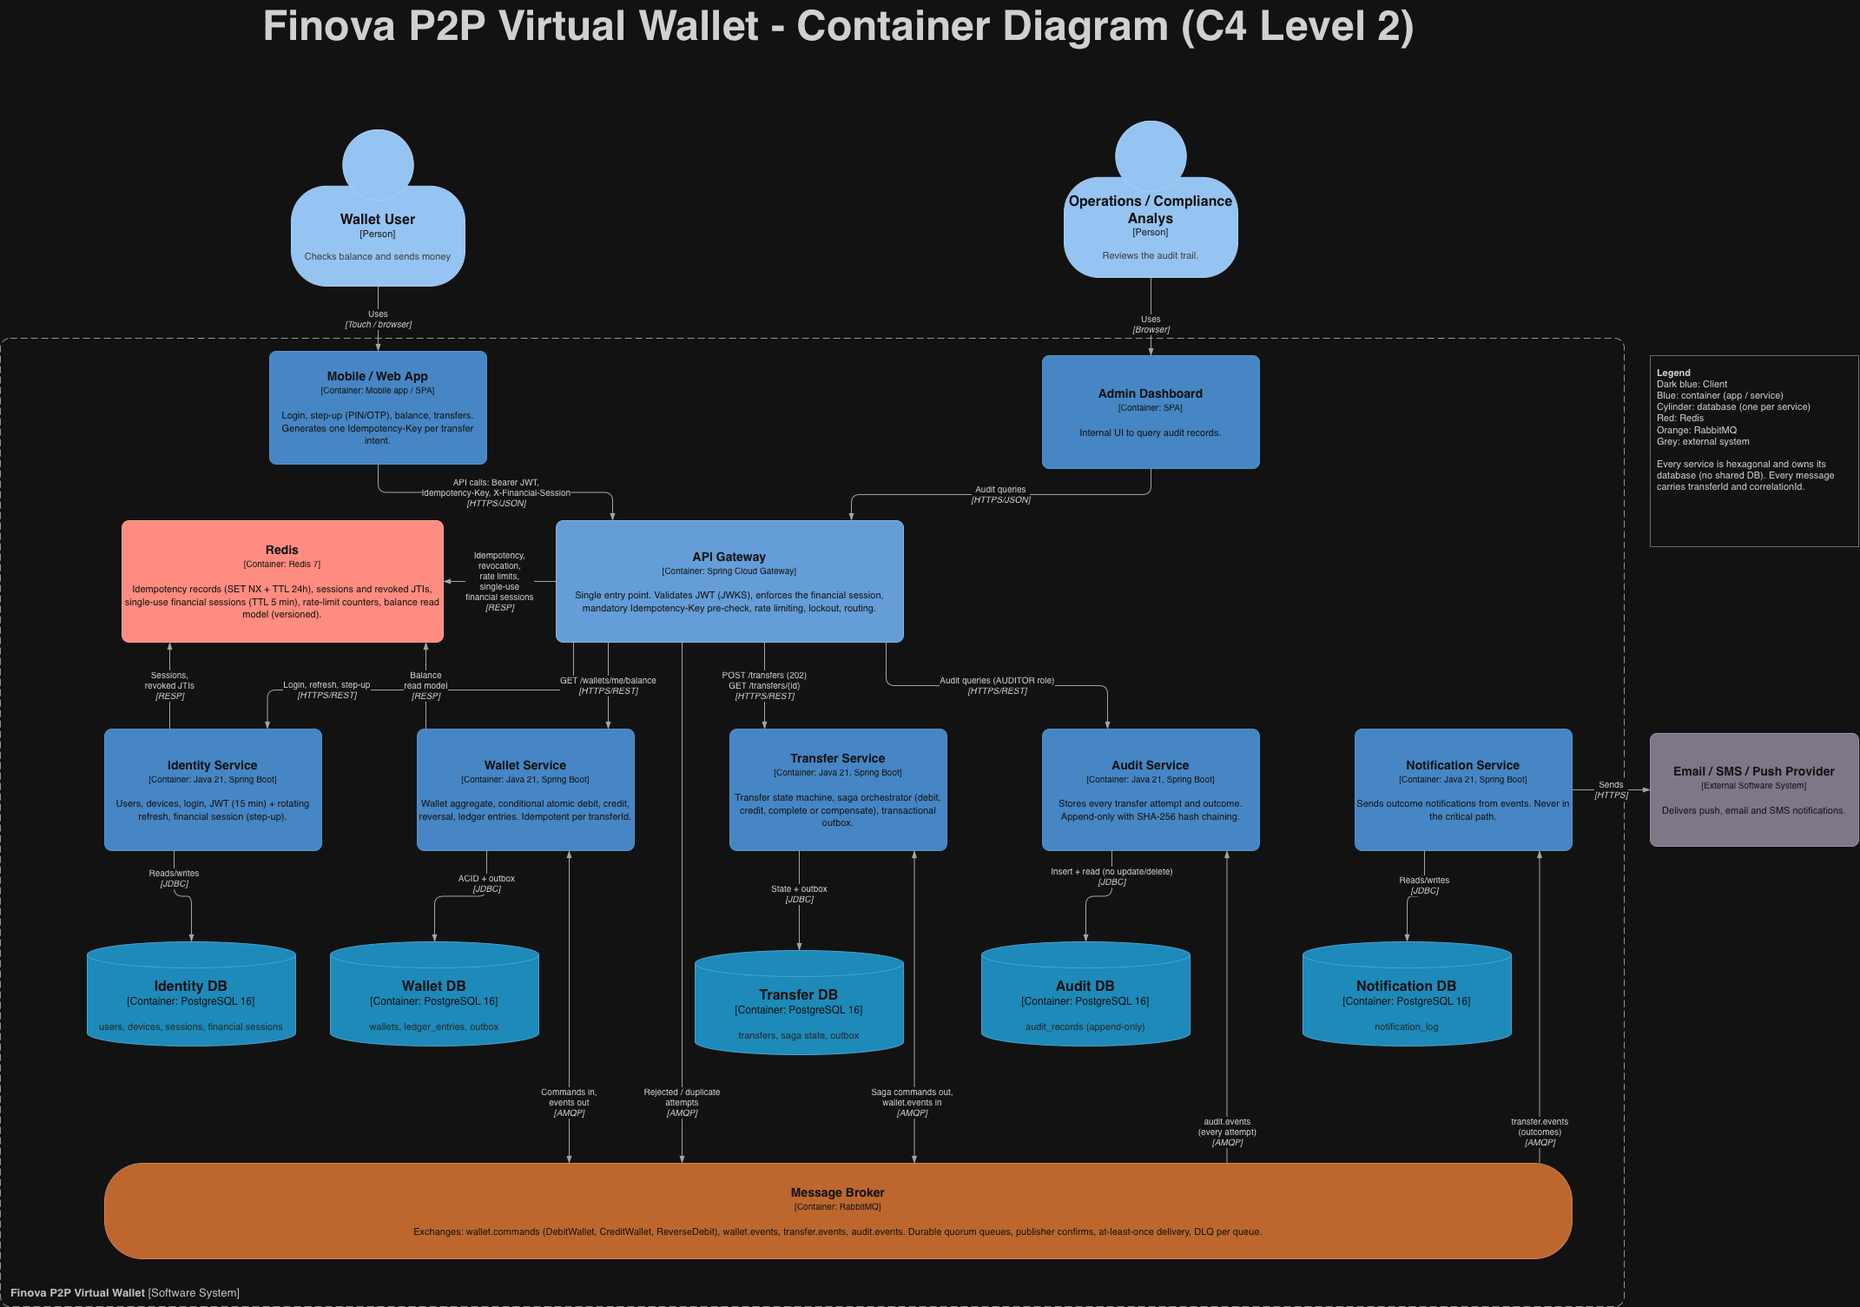
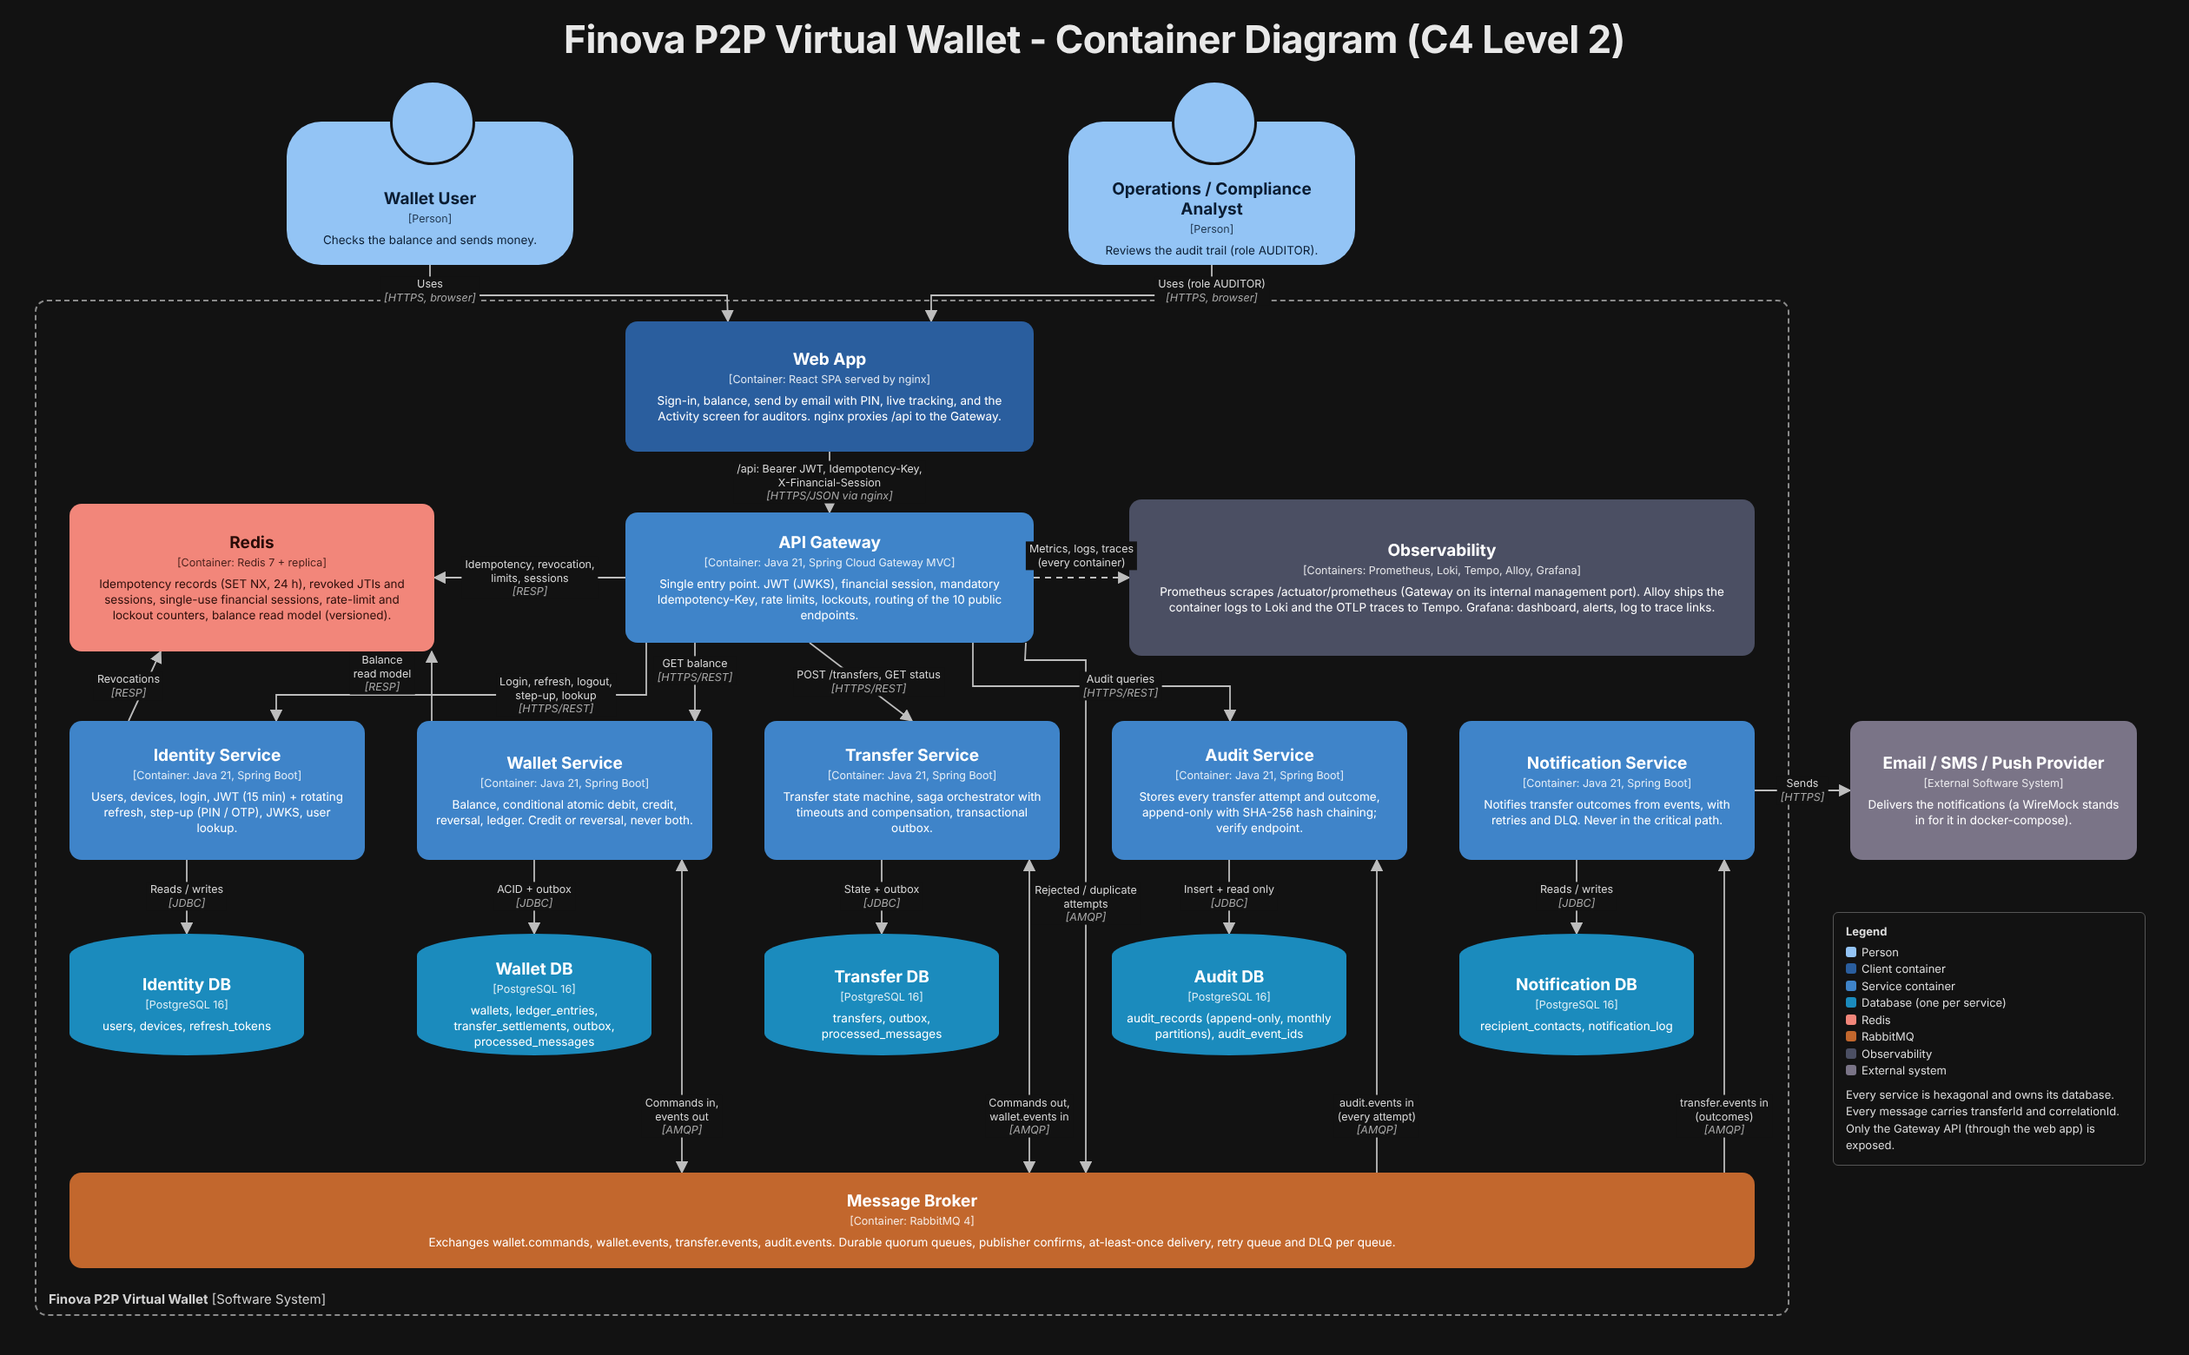
docs(c4): add the system context (level 1) and correct the container diagram
The C4 deliverable had only the container level and it no longer matched the code (audit
section E):

- New docs/assets/finova-C4-context.png: Wallet User, Operations / Compliance Analyst,
  Finova as one system and the Email / SMS / Push provider.
- docs/assets/finova-C4.png redrawn: one web app (React + nginx) with the Activity screen for
  auditors instead of a separate admin dashboard; real tables per database (Identity has no
  financial sessions: they are JWTs; Wallet has transfer_settlements); Redis with its
  replica; the observability stack (Prometheus, Loki, Tempo, Alloy, Grafana); the "Analyst"
  typo fixed.
- Both are generated from docs/assets/c4-src (Python + Playwright), so they can be updated
  and regenerated instead of redrawn by hand. The README shows both.

Claude-Session: https://claude.ai/code/session_01D6YzLAQE3fNPGWcg7XRSNY

diff --git a/docs/assets/c4-src/c4.py b/docs/assets/c4-src/c4.py
@@ -1,0 +1,234 @@
+"""Builds the Finova C4 diagrams (level 1 and level 2) as HTML pages; render.cjs turns them into PNG.
+
+Regenerate both images after editing the nodes or edges below (Python 3 and Node with Playwright):
+
+    cd docs/assets/c4-src && python3 c4.py . && node render.cjs
+
+render.cjs writes ../finova-C4-context.png (level 1) and ../finova-C4.png (level 2).
+"""
+import html
+import sys
+
+OUT = sys.argv[1]
+
+COLORS = {
+    'person': ('#93c4f5', '#0b1d33'),
+    'system': ('#1f6fb8', '#ffffff'),
+    'container': ('#3f84c9', '#ffffff'),
+    'client': ('#2a5e9e', '#ffffff'),
+    'db': ('#1b8bbd', '#ffffff'),
+    'redis': ('#f2867a', '#2a0c08'),
+    'broker': ('#c2672d', '#ffffff'),
+    'external': ('#7a7487', '#ffffff'),
+    'obs': ('#4b4f63', '#ffffff'),
+}
+
+CSS = """
+* { box-sizing: border-box; }
+body { margin: 0; background: #121212; font-family: Inter, 'Helvetica Neue', Arial, sans-serif; }
+.canvas { position: relative; }
+h1 { position: absolute; left: 0; right: 0; top: 18px; margin: 0; text-align: center; color: #e8e8e8;
+     font-size: 44px; font-weight: 700; letter-spacing: -0.5px; }
+.node { position: absolute; border-radius: 14px; padding: 12px 16px; display: flex; flex-direction: column;
+        align-items: center; justify-content: center; text-align: center; gap: 4px; }
+.node .t { font-size: 19px; font-weight: 700; }
+.node .k { font-size: 12.5px; opacity: .85; }
+.node .d { font-size: 13.5px; line-height: 1.35; margin-top: 4px; }
+.person { border-radius: 40px; padding-top: 70px; }
+.person::before { content: ''; position: absolute; top: -48px; left: 50%; width: 92px; height: 92px; margin-left: -46px;
+                  border-radius: 50%; background: inherit; border: 3px solid #121212; }
+.db { border-radius: 50% / 18%; padding-top: 34px; }
+.boundary { position: absolute; border: 2px dashed #8a8a8a; border-radius: 14px; }
+.boundary span { position: absolute; left: 14px; bottom: 8px; color: #d0d0d0; font-size: 15px; }
+.boundary span b { font-weight: 700; }
+.label { position: absolute; color: #d8d8d8; font-size: 12.5px; line-height: 1.25; text-align: center;
+         background: #121212; padding: 1px 4px; transform: translate(-50%, -50%); white-space: nowrap; }
+.label i { color: #a8a8a8; }
+.legend { position: absolute; border: 1px solid #555; border-radius: 6px; padding: 12px 14px; color: #ddd;
+          font-size: 13px; line-height: 1.5; }
+.legend b { display: block; margin-bottom: 4px; }
+.sw { display: inline-block; width: 12px; height: 12px; border-radius: 3px; margin-right: 6px; vertical-align: -1px; }
+"""
+
+
+def node(n):
+    bg, fg = COLORS[n['kind']]
+    cls = 'node' + (' person' if n['kind'] == 'person' else '') + (' db' if n['kind'] == 'db' else '')
+    desc = f"<div class='d'>{html.escape(n.get('desc', ''))}</div>" if n.get('desc') else ''
+    return (f"<div class='{cls}' style='left:{n['x']}px;top:{n['y']}px;width:{n['w']}px;height:{n['h']}px;"
+            f"background:{bg};color:{fg}'><div class='t'>{html.escape(n['title'])}</div>"
+            f"<div class='k'>[{html.escape(n['tech'])}]</div>{desc}</div>")
+
+
+def anchor(n, side, t=0.5):
+    x, y, w, h = n['x'], n['y'], n['w'], n['h']
+    return {'t': (x + w * t, y), 'b': (x + w * t, y + h), 'l': (x, y + h * t), 'r': (x + w, y + h * t)}[side]
+
+
+def page(title, width, height, nodes, edges, boundary=None, legend=None):
+    by_id = {n['id']: n for n in nodes}
+    paths, labels = [], []
+    for e in edges:
+        a = anchor(by_id[e['from']], e['fs'], e.get('ft', 0.5))
+        b = anchor(by_id[e['to']], e['ts'], e.get('tt', 0.5))
+        pts = [a] + [tuple(p) for p in e.get('via', [])] + [b]
+        d = 'M ' + ' L '.join(f'{x:.0f} {y:.0f}' for x, y in pts)
+        dash = " stroke-dasharray='7 6'" if e.get('dashed') else ''
+        both = " marker-start='url(#arrow-start)'" if e.get('both') else ''
+        paths.append(f"<path d='{d}' fill='none' stroke='#bdbdbd' stroke-width='1.8' marker-end='url(#arrow)'{both}{dash}/>")
+        if e.get('label'):
+            lx, ly = e.get('at') or ((pts[0][0] + pts[1][0]) / 2, (pts[0][1] + pts[1][1]) / 2)
+            text = '<br>'.join(html.escape(part) for part in e['label'].split('\n'))
+            tech = f"<br><i>[{html.escape(e['tech'])}]</i>" if e.get('tech') else ''
+            labels.append(f"<div class='label' style='left:{lx}px;top:{ly}px'>{text}{tech}</div>")
+    svg = (f"<svg width='{width}' height='{height}' style='position:absolute;left:0;top:0'>"
+           "<defs><marker id='arrow' viewBox='0 0 10 10' refX='9' refY='5' markerWidth='8' markerHeight='8' orient='auto'>"
+           "<path d='M0 0 L10 5 L0 10 z' fill='#bdbdbd'/></marker>"
+           "<marker id='arrow-start' viewBox='0 0 10 10' refX='1' refY='5' markerWidth='8' markerHeight='8' orient='auto'>"
+           "<path d='M10 0 L0 5 L10 10 z' fill='#bdbdbd'/></marker></defs>" + ''.join(paths) + '</svg>')
+    bnd = ''
+    if boundary:
+        x, y, w, h, name, kind = boundary
+        bnd = (f"<div class='boundary' style='left:{x}px;top:{y}px;width:{w}px;height:{h}px'>"
+               f"<span><b>{html.escape(name)}</b> [{html.escape(kind)}]</span></div>")
+    leg = ''
+    if legend:
+        x, y, w, items, note = legend
+        rows = ''.join(f"<div><span class='sw' style='background:{COLORS[k][0]}'></span>{html.escape(t)}</div>" for k, t in items)
+        leg = (f"<div class='legend' style='left:{x}px;top:{y}px;width:{w}px'><b>Legend</b>{rows}"
+               f"<div style='margin-top:8px'>{html.escape(note)}</div></div>")
+    return (f"<!doctype html><html><head><meta charset='utf-8'><style>{CSS}</style></head><body>"
+            f"<div class='canvas' style='width:{width}px;height:{height}px'><h1>{html.escape(title)}</h1>"
+            f"{bnd}{svg}{''.join(node(n) for n in nodes)}{''.join(labels)}{leg}</div></body></html>")
+
+
+# ---------------------------------------------------------------- level 1: system context
+L1 = [
+    dict(id='user', kind='person', x=140, y=190, w=330, h=190, title='Wallet User', tech='Person',
+         desc='Checks the balance and sends money to other users by email.'),
+    dict(id='analyst', kind='person', x=1130, y=190, w=330, h=190, title='Operations / Compliance Analyst',
+         tech='Person', desc='Reviews every transfer attempt and checks that the audit trail is intact.'),
+    dict(id='finova', kind='system', x=520, y=500, w=560, h=210, title='Finova P2P Virtual Wallet', tech='Software System',
+         desc='Sign-in with step-up (PIN or OTP), balance, P2P transfers that are never charged twice and are '
+              'reversed automatically when they cannot complete, and an append-only, hash-chained audit trail.'),
+    dict(id='provider', kind='external', x=560, y=860, w=480, h=150, title='Email / SMS / Push Provider',
+         tech='External Software System', desc='Delivers the transfer outcome notifications.'),
+]
+L1_EDGES = [
+    dict(**{'from': 'user', 'to': 'finova'}, fs='b', ts='t', tt=0.2, via=[(305, 450), (632, 450)],
+         label='Signs in, checks the balance,\nsends money', tech='HTTPS, web browser', at=(305, 440)),
+    dict(**{'from': 'analyst', 'to': 'finova'}, fs='b', ts='t', tt=0.8, via=[(1295, 450), (968, 450)],
+         label='Queries attempts,\nverifies the audit chain', tech='HTTPS, web browser', at=(1295, 440)),
+    dict(**{'from': 'finova', 'to': 'provider'}, fs='b', ts='t', label='Sends transfer outcome notifications',
+         tech='HTTPS', at=(800, 785)),
+    dict(**{'from': 'provider', 'to': 'user'}, fs='l', ts='b', tt=0.3, via=[(240, 935)],
+         label='Delivers email, SMS or push', at=(240, 640)),
+]
+
+# ---------------------------------------------------------------- level 2: containers
+SX = [80, 480, 880, 1280, 1680]          # service columns
+SW, SY, SH = 340, 830, 160
+DY, DW, DH = 1075, 270, 140
+L2 = [
+    dict(id='user', kind='person', x=330, y=140, w=330, h=165, title='Wallet User', tech='Person',
+         desc='Checks the balance and sends money.'),
+    dict(id='analyst', kind='person', x=1230, y=140, w=330, h=165, title='Operations / Compliance Analyst',
+         tech='Person', desc='Reviews the audit trail (role AUDITOR).'),
+    dict(id='web', kind='client', x=720, y=370, w=470, h=150, title='Web App', tech='Container: React SPA served by nginx',
+         desc='Sign-in, balance, send by email with PIN, live tracking, and the Activity screen for auditors. '
+              'nginx proxies /api to the Gateway.'),
+    dict(id='redis', kind='redis', x=80, y=580, w=420, h=170, title='Redis', tech='Container: Redis 7 + replica',
+         desc='Idempotency records (SET NX, 24 h), revoked JTIs and sessions, single-use financial sessions, '
+              'rate-limit and lockout counters, balance read model (versioned).'),
+    dict(id='gw', kind='container', x=720, y=590, w=470, h=150, title='API Gateway',
+         tech='Container: Java 21, Spring Cloud Gateway MVC',
+         desc='Single entry point. JWT (JWKS), financial session, mandatory Idempotency-Key, rate limits, '
+              'lockouts, routing of the 10 public endpoints.'),
+    dict(id='obs', kind='obs', x=1300, y=575, w=720, h=180, title='Observability', tech='Containers: Prometheus, Loki, Tempo, Alloy, Grafana',
+         desc='Prometheus scrapes /actuator/prometheus (Gateway on its internal management port). Alloy ships the '
+              'container logs to Loki and the OTLP traces to Tempo. Grafana: dashboard, alerts, log to trace links.'),
+    dict(id='identity', kind='container', x=SX[0], y=SY, w=SW, h=SH, title='Identity Service', tech='Container: Java 21, Spring Boot',
+         desc='Users, devices, login, JWT (15 min) + rotating refresh, step-up (PIN / OTP), JWKS, user lookup.'),
+    dict(id='wallet', kind='container', x=SX[1], y=SY, w=SW, h=SH, title='Wallet Service', tech='Container: Java 21, Spring Boot',
+         desc='Balance, conditional atomic debit, credit, reversal, ledger. Credit or reversal, never both.'),
+    dict(id='transfer', kind='container', x=SX[2], y=SY, w=SW, h=SH, title='Transfer Service', tech='Container: Java 21, Spring Boot',
+         desc='Transfer state machine, saga orchestrator with timeouts and compensation, transactional outbox.'),
+    dict(id='audit', kind='container', x=SX[3], y=SY, w=SW, h=SH, title='Audit Service', tech='Container: Java 21, Spring Boot',
+         desc='Stores every transfer attempt and outcome, append-only with SHA-256 hash chaining; verify endpoint.'),
+    dict(id='notif', kind='container', x=SX[4], y=SY, w=SW, h=SH, title='Notification Service', tech='Container: Java 21, Spring Boot',
+         desc='Notifies transfer outcomes from events, with retries and DLQ. Never in the critical path.'),
+    dict(id='identitydb', kind='db', x=SX[0], y=DY, w=DW, h=DH, title='Identity DB', tech='PostgreSQL 16',
+         desc='users, devices, refresh_tokens'),
+    dict(id='walletdb', kind='db', x=SX[1], y=DY, w=DW, h=DH, title='Wallet DB', tech='PostgreSQL 16',
+         desc='wallets, ledger_entries, transfer_settlements, outbox, processed_messages'),
+    dict(id='transferdb', kind='db', x=SX[2], y=DY, w=DW, h=DH, title='Transfer DB', tech='PostgreSQL 16',
+         desc='transfers, outbox, processed_messages'),
+    dict(id='auditdb', kind='db', x=SX[3], y=DY, w=DW, h=DH, title='Audit DB', tech='PostgreSQL 16',
+         desc='audit_records (append-only, monthly partitions), audit_event_ids'),
+    dict(id='notifdb', kind='db', x=SX[4], y=DY, w=DW, h=DH, title='Notification DB', tech='PostgreSQL 16',
+         desc='recipient_contacts, notification_log'),
+    dict(id='broker', kind='broker', x=80, y=1350, w=1940, h=110, title='Message Broker', tech='Container: RabbitMQ 4',
+         desc='Exchanges wallet.commands, wallet.events, transfer.events, audit.events. Durable quorum queues, '
+              'publisher confirms, at-least-once delivery, retry queue and DLQ per queue.'),
+    dict(id='provider', kind='external', x=2130, y=830, w=330, h=160, title='Email / SMS / Push Provider',
+         tech='External Software System', desc='Delivers the notifications (a WireMock stands in for it in docker-compose).'),
+]
+GW = next(n for n in L2 if n['id'] == 'gw')
+
+
+def to_x(service):
+    return next(n['x'] + n['w'] / 2 for n in L2 if n['id'] == service)
+
+
+L2_EDGES = [
+    dict(**{'from': 'user', 'to': 'web'}, fs='b', ts='t', tt=0.25, via=[(495, 340), (837, 340)],
+         label='Uses', tech='HTTPS, browser', at=(495, 335)),
+    dict(**{'from': 'analyst', 'to': 'web'}, fs='b', ts='t', tt=0.75, via=[(1395, 340), (1072, 340)],
+         label='Uses (role AUDITOR)', tech='HTTPS, browser', at=(1395, 335)),
+    dict(**{'from': 'web', 'to': 'gw'}, fs='b', ts='t', label='/api: Bearer JWT, Idempotency-Key,\nX-Financial-Session',
+         tech='HTTPS/JSON via nginx', at=(955, 555)),
+    dict(**{'from': 'gw', 'to': 'redis'}, fs='l', ts='r', label='Idempotency, revocation,\nlimits, sessions', tech='RESP',
+         at=(610, 665)),
+    dict(**{'from': 'gw', 'to': 'identity'}, fs='b', ft=0.05, ts='t', tt=0.7, via=[(743.5, 800), (318, 800)],
+         label='Login, refresh, logout,\nstep-up, lookup', tech='HTTPS/REST', at=(640, 800)),
+    dict(**{'from': 'gw', 'to': 'wallet'}, fs='b', ft=80 / 470, ts='t', tt=320 / 340,
+         label='GET balance', tech='HTTPS/REST', at=(800, 772)),
+    dict(**{'from': 'gw', 'to': 'transfer'}, fs='b', ft=0.45, ts='t', label='POST /transfers, GET status',
+         tech='HTTPS/REST', at=(1000, 785)),
+    dict(**{'from': 'gw', 'to': 'audit'}, fs='b', ft=0.85, ts='t', tt=0.4, via=[(1120, 790), (1416, 790)],
+         label='Audit queries', tech='HTTPS/REST', at=(1290, 790)),
+    dict(**{'from': 'gw', 'to': 'obs'}, fs='r', ts='l', dashed=True, label='Metrics, logs, traces\n(every container)',
+         at=(1245, 640)),
+    dict(**{'from': 'identity', 'to': 'redis'}, fs='t', ft=0.2, ts='b', tt=0.25, label='Revocations', tech='RESP',
+         at=(148, 790)),
+    dict(**{'from': 'wallet', 'to': 'redis'}, fs='t', ft=17 / 340, ts='b', tt=417 / 420,
+         label='Balance\nread model', tech='RESP', at=(440, 775)),
+    dict(**{'from': 'gw', 'to': 'broker'}, fs='b', ft=0.98, ts='t', tt=(1250 - 80) / 1940, via=[(1180, 760), (1250, 760)],
+         label='Rejected / duplicate\nattempts', tech='AMQP', at=(1250, 1040)),
+    dict(**{'from': 'notif', 'to': 'provider'}, fs='r', ts='l', label='Sends', tech='HTTPS', at=(2075, 910)),
+]
+for i, (sid, dbid, rel) in enumerate([('identity', 'identitydb', 'Reads / writes'), ('wallet', 'walletdb', 'ACID + outbox'),
+                                       ('transfer', 'transferdb', 'State + outbox'), ('audit', 'auditdb', 'Insert + read only'),
+                                       ('notif', 'notifdb', 'Reads / writes')]):
+    L2_EDGES.append(dict(**{'from': sid, 'to': dbid}, fs='b', ft=DW / 2 / SW, ts='t', label=rel, tech='JDBC',
+                         at=(SX[i] + DW / 2, SY + SH + 42)))
+for i, (sid, label, both) in enumerate([('wallet', 'Commands in,\nevents out', True), ('transfer', 'Commands out,\nwallet.events in', True),
+                                         ('audit', 'audit.events in\n(every attempt)', False), ('notif', 'transfer.events in\n(outcomes)', False)]):
+    col = SX[i + 1]
+    x = col + 305
+    L2_EDGES.append(dict(**{'from': sid, 'to': 'broker'} if both else {'from': 'broker', 'to': sid},
+                         fs='b' if both else 't', ft=((x - col) / SW) if both else ((x - 80) / 1940),
+                         ts='t' if both else 'b', tt=((x - 80) / 1940) if both else ((x - col) / SW),
+                         both=both, label=label, tech='AMQP', at=(x, 1285)))
+
+open(f'{OUT}/c4-context.html', 'w').write(page('Finova P2P Virtual Wallet - System Context (C4 Level 1)', 1600, 1080, L1, L1_EDGES,
+    legend=(1150, 860, 400, [('person', 'Person'), ('system', 'Finova (the system)'), ('external', 'External system')],
+            'The system is decomposed into containers in the Level 2 diagram (finova-C4.png).')))
+open(f'{OUT}/c4-containers.html', 'w').write(page('Finova P2P Virtual Wallet - Container Diagram (C4 Level 2)', 2520, 1560, L2, L2_EDGES,
+    boundary=(40, 345, 2020, 1170, 'Finova P2P Virtual Wallet', 'Software System'),
+    legend=(2110, 1050, 360, [('person', 'Person'), ('client', 'Client container'), ('container', 'Service container'),
+                              ('db', 'Database (one per service)'), ('redis', 'Redis'), ('broker', 'RabbitMQ'),
+                              ('obs', 'Observability'), ('external', 'External system')],
+            'Every service is hexagonal and owns its database. Every message carries transferId and correlationId. '
+            'Only the Gateway API (through the web app) is exposed.')))
+print('ok')

diff --git a/README.md b/README.md
@@ -21,6 +21,8 @@ Finova's current architecture performs chained synchronous HTTP calls (User-Serv
 
 ## Target architecture (summary)
 
+![Finova C4 System Context Diagram](docs/assets/finova-C4-context.png)
+
 ![Finova C4 Container Diagram](docs/assets/finova-C4.png)
 
 - **API Gateway** terminates auth, enforces **Idempotency-Key** on write operations, and rate-limits by user/session.
